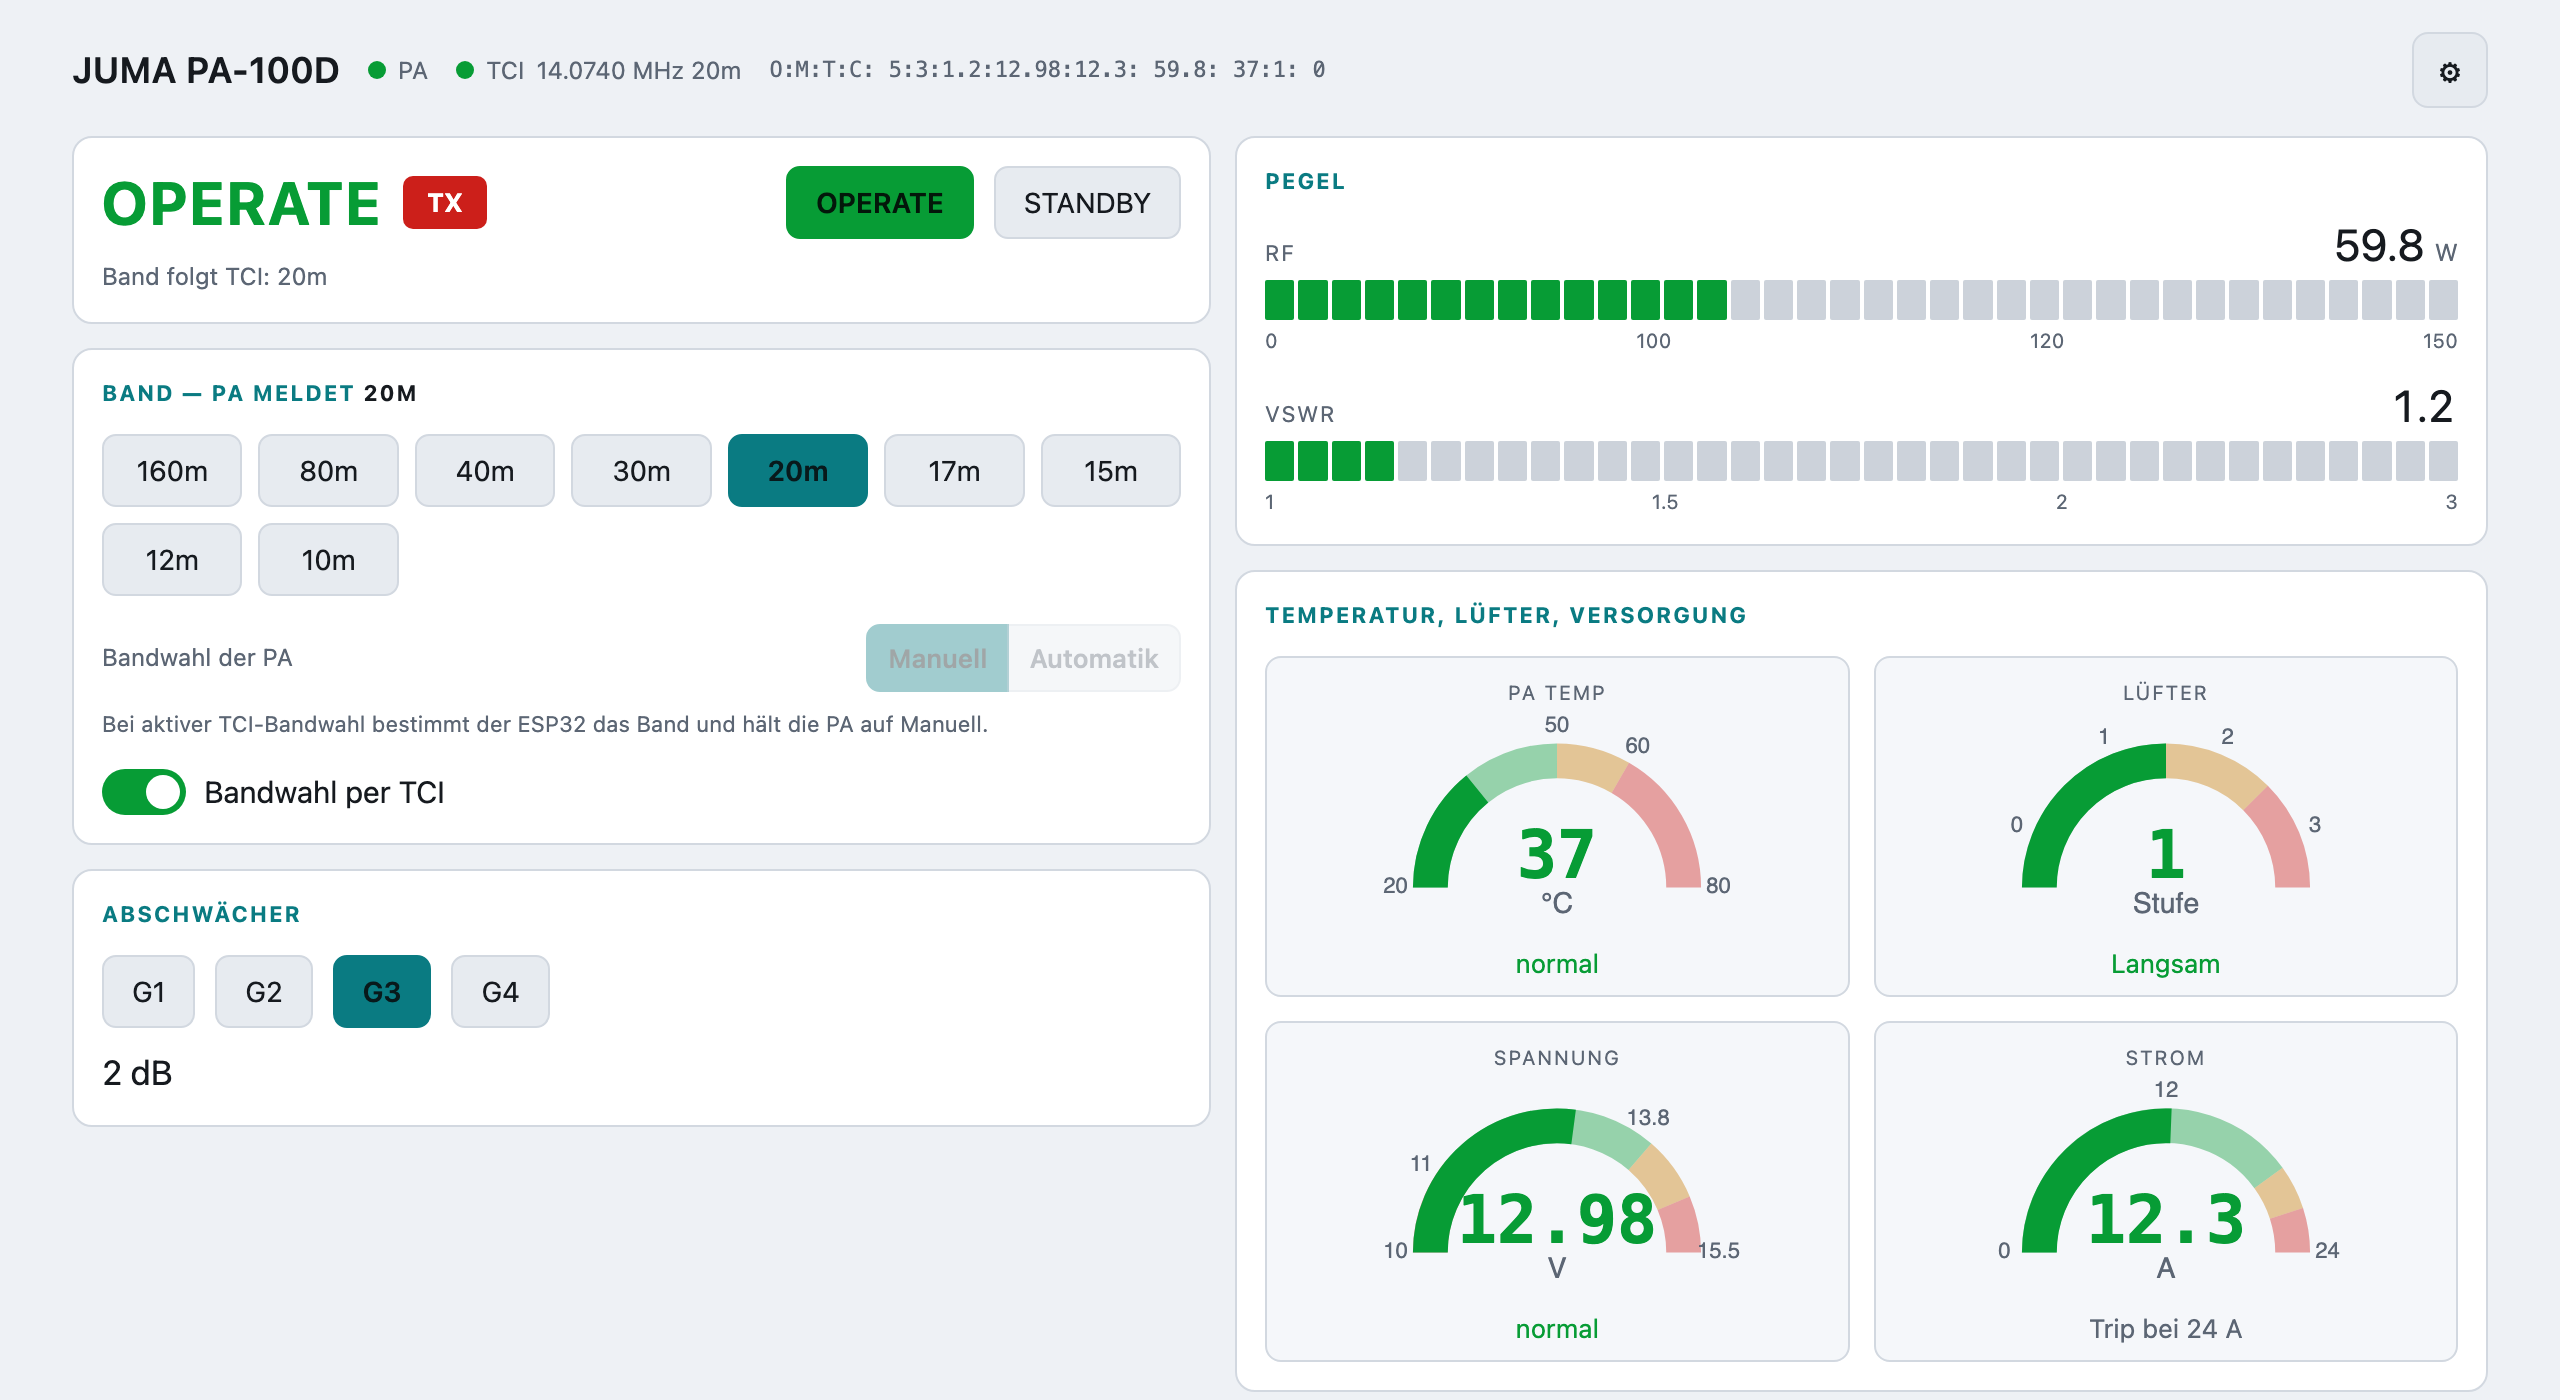
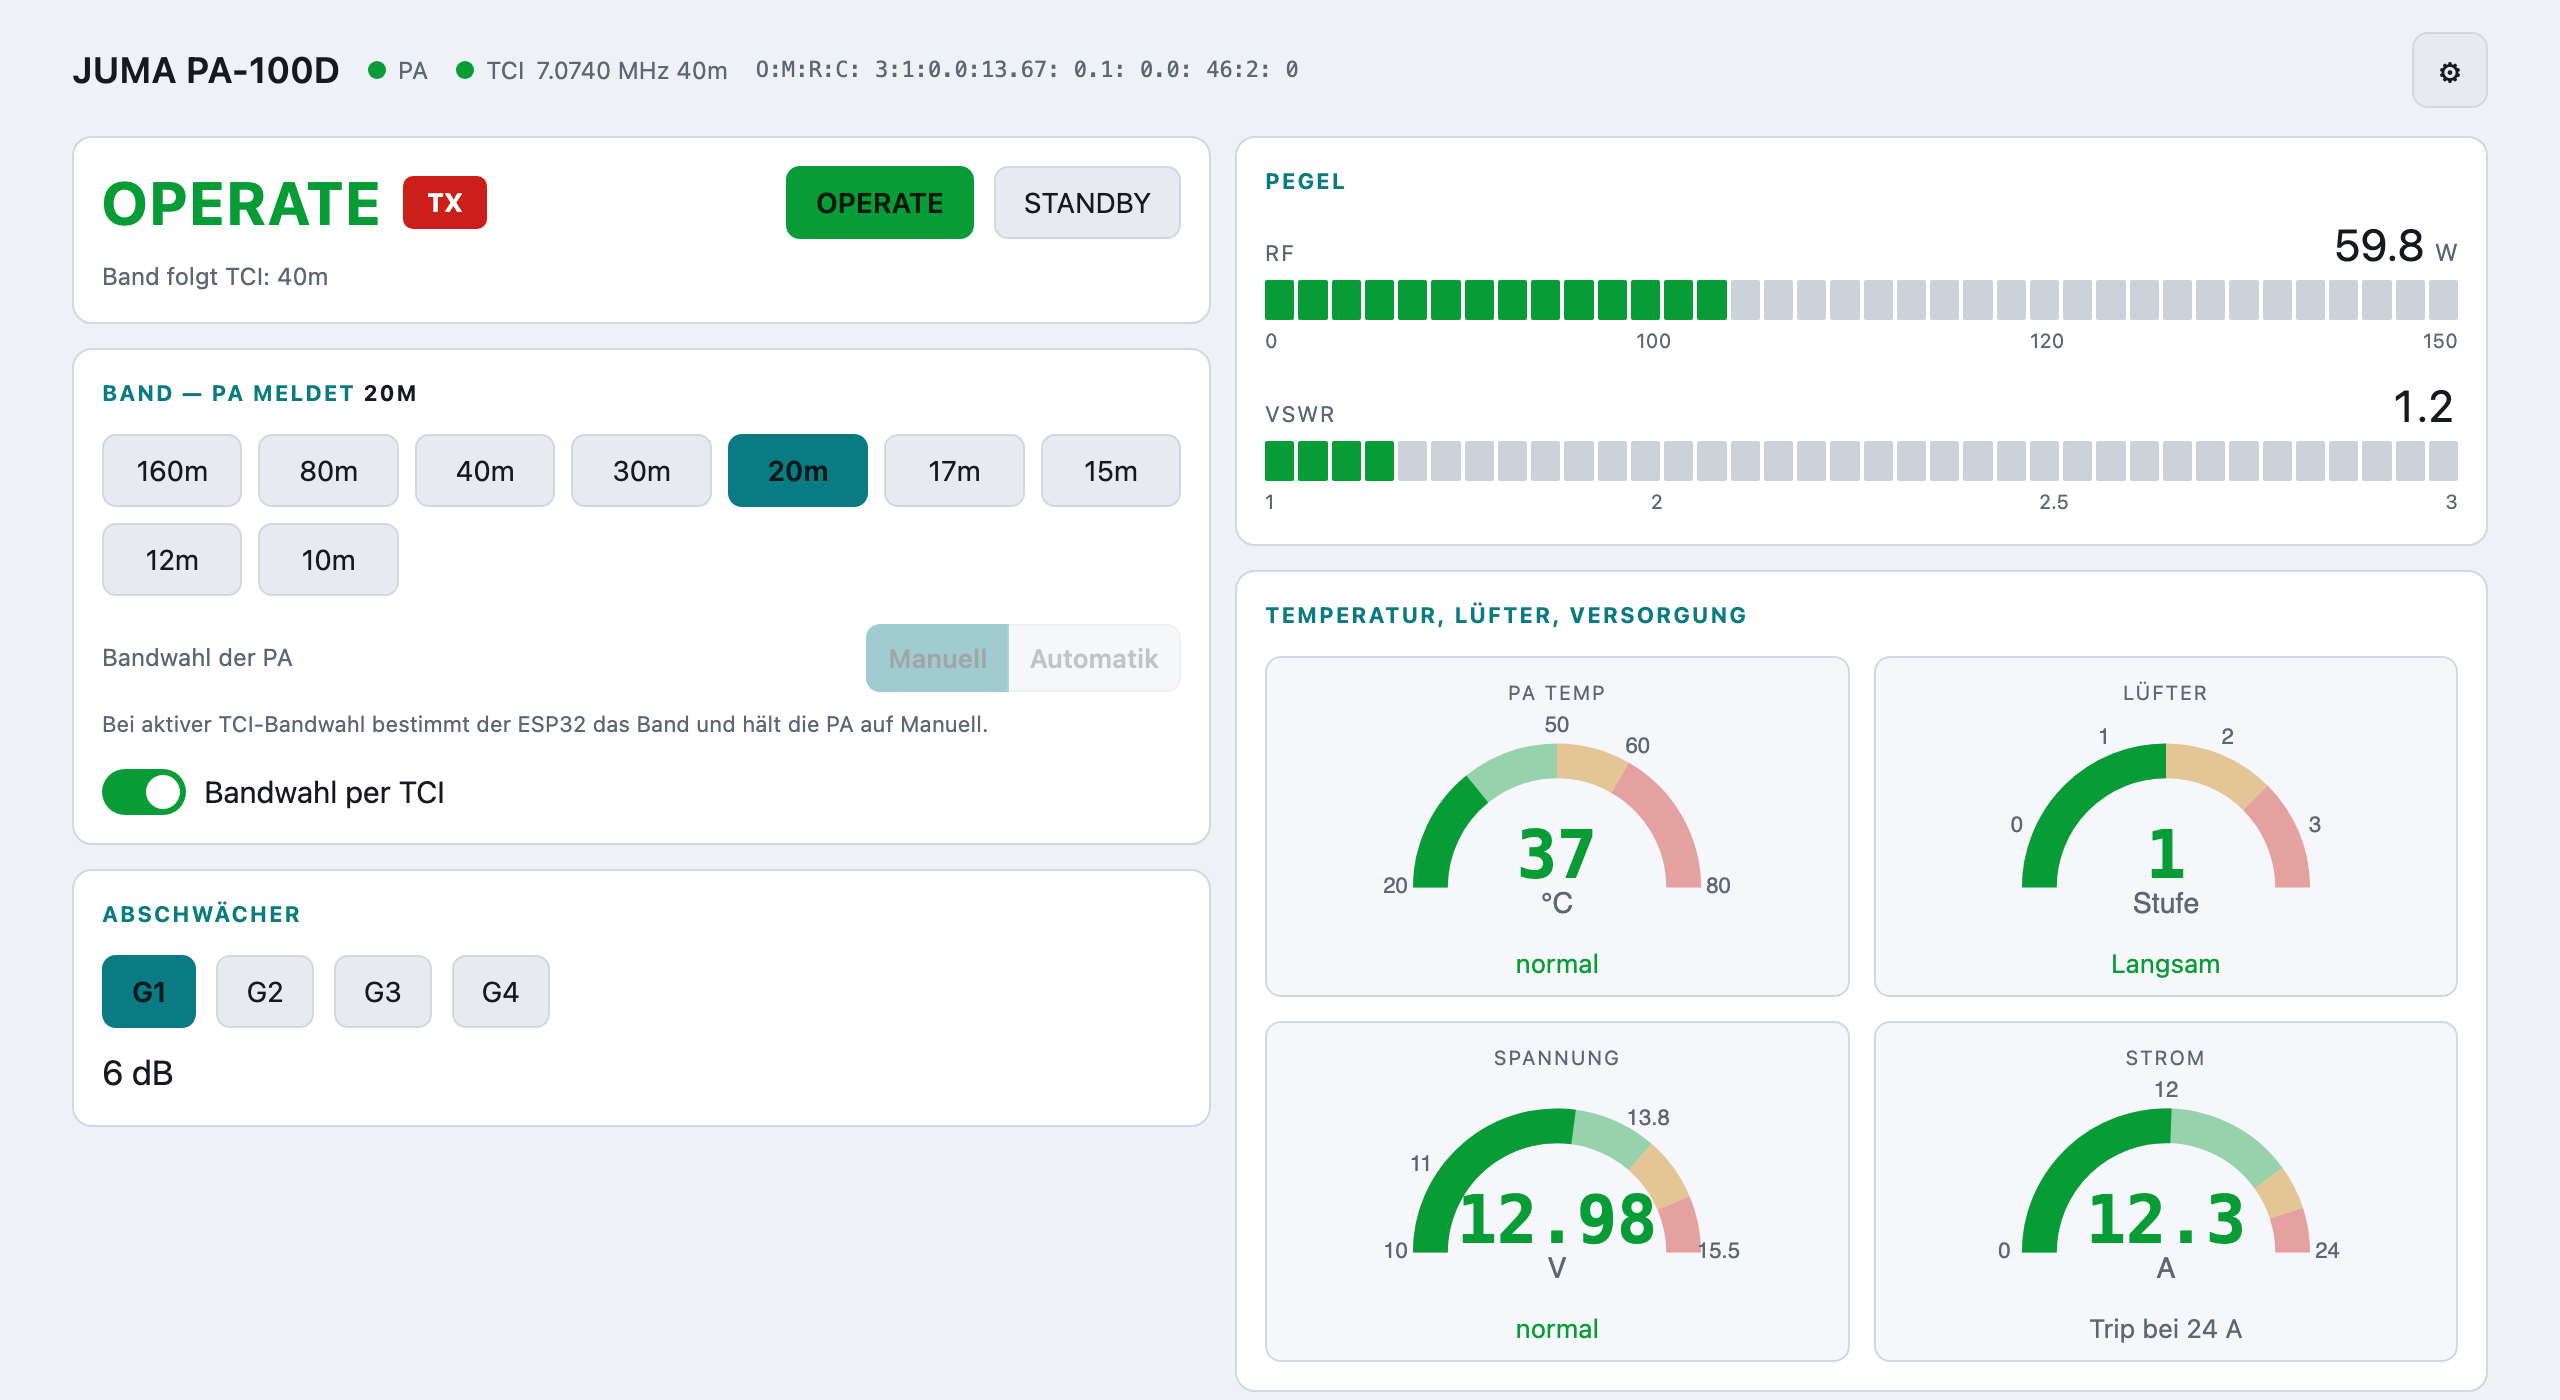
Doku: Befehlsliste aus der Firmware erzeugt, Screenshots aktualisiert
Im README fehlten tempwarn, temphigh, tempalarm, swrwarn, swrhigh und swralarm -
die Liste war von Hand gepflegt und entsprechend auseinandergelaufen. Sie wird
jetzt aus dem Hilfetext von console.cpp uebernommen, also aus einer Quelle.

Screenshots neu: das Einstellungspanel ist seit den alten Bildern um Temperatur-
und SWR-Vorwarnung, Geraetenamen und die Themenwahl gewachsen. Messwerte wieder
aus echtem Sendebetrieb, Netzdaten durch Platzhalter ersetzt.

diff --git a/README.md b/README.md
@@ -557,14 +557,20 @@ keine Nachrichten mehr kommen (deshalb der 500-ms-Poll). Und Feld 6 ist ein
 ```
 show                aktuelle Konfiguration und Zustand
 scan                WLAN-Scan
-hostname <name>     Netzname für WLAN, mDNS und OTA
+hostname <name>     Netzname fuer WLAN, mDNS und OTA
 ssid <name>         WLAN-SSID setzen
 pass <secret>       WLAN-Passwort setzen
-tci <host> [port]   TCI-Host der SDR-Software
+tci <host> [port]   TCI-Host der SDR-Software (Port default 50002)
 tcien <0|1>         TCI-Client aus/ein
 autoband <0|1>      Bandwahl per TCI aus/ein
-tcilosta <0|1>      bei TCI-Verlust =A senden
 otastby <0|1>       vor dem Firmware-Update =S an die PA
+tcilosta <0|1>      bei TCI-Verlust =A senden (PA waehlt wieder selbst)
+tempwarn <grad>     Vorwarnung ab dieser Temperatur
+temphigh <grad>     ab hier rot in der Anzeige
+tempalarm <0|1>     Vorwarnung aus/ein
+swrwarn <wert>      SWR-Vorwarnung ab diesem Wert
+swrhigh <wert>      SWR ab hier rot in der Anzeige
+swralarm <0|1>      SWR-Vorwarnung aus/ein
 sel <a|m>           Bandwahl der PA auf Automatik / Manuell
 save                speichern und neu starten
 reboot              nur neu starten
